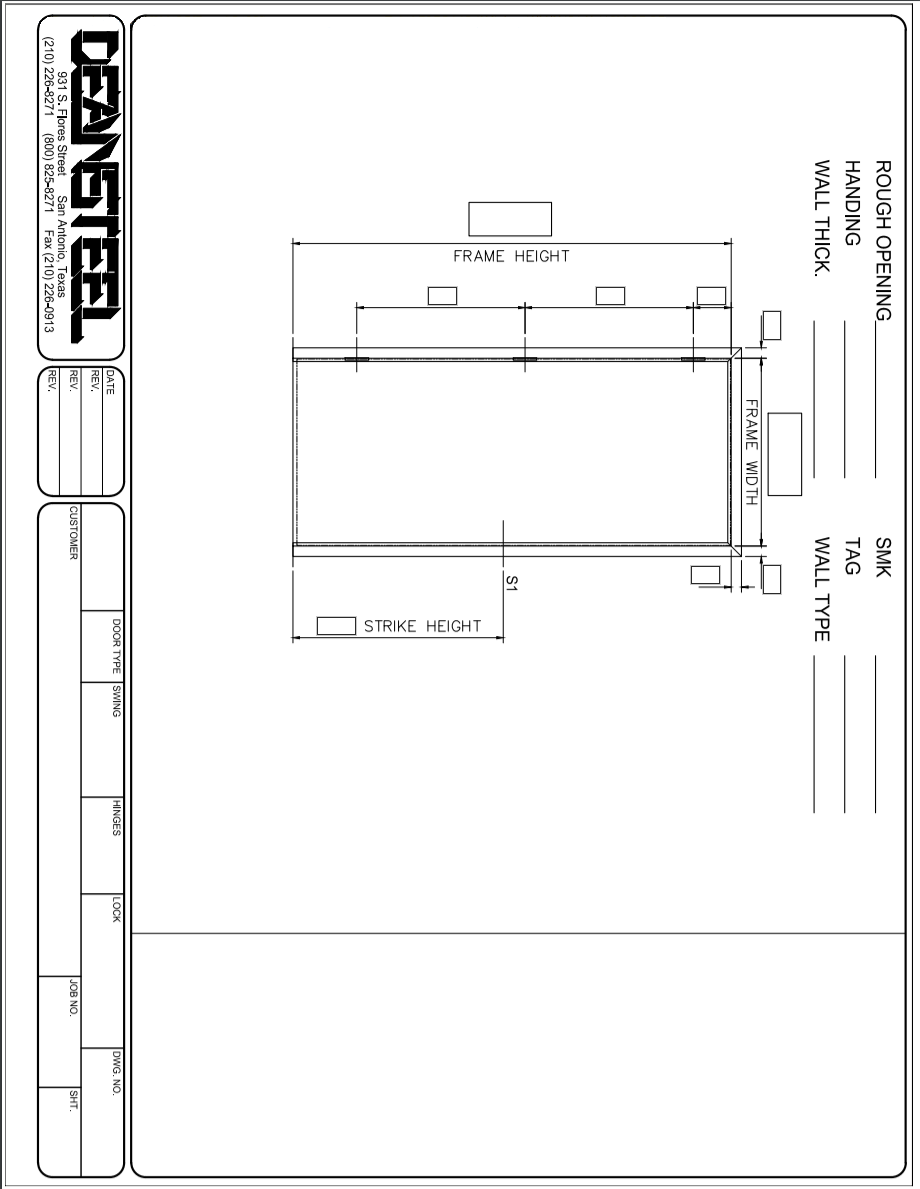
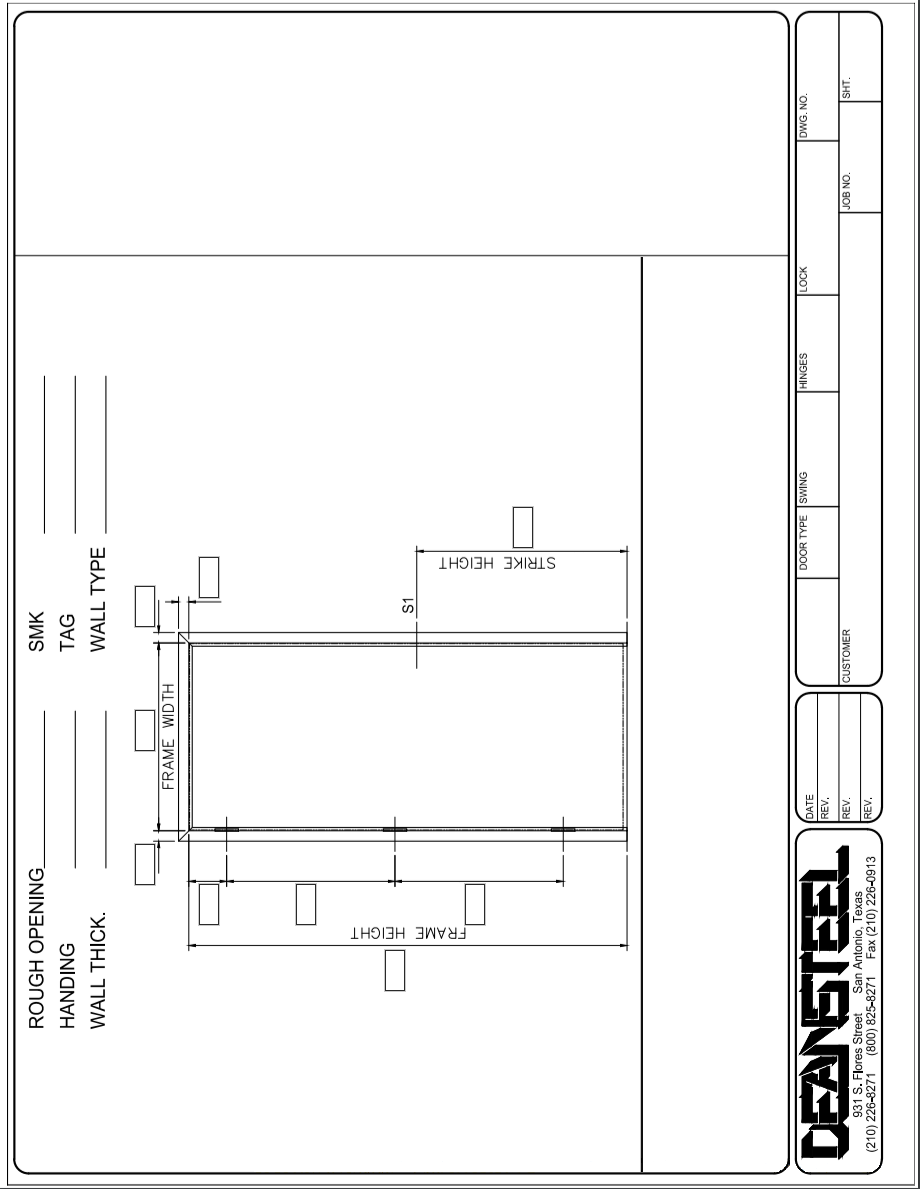
Blueprint Sizes now appear in boxes

Changed region(s): [[0.0, 0.0, 1.0, 1.0]]

diff --git a/DoorManageSys/src/report/BlueprintReport.java b/DoorManageSys/src/report/BlueprintReport.java
@@ -11,6 +11,7 @@ import org.apache.pdfbox.pdmodel.common.PDRectangle;
 import org.apache.pdfbox.pdmodel.graphics.image.PDImageXObject;
 import org.apache.pdfbox.util.Matrix;
 
+import blueprint.Blueprint;
 import order.Order;
 
 public class BlueprintReport extends PDFReport {
@@ -20,6 +21,10 @@ public class BlueprintReport extends PDFReport {
 	private PDImageXObject firstPage;
 	private PDPageContentStream stream;
 	private PDRectangle mediaBox;
+	private String width, height, frameLeft, frameRight, frameTop;
+	private String hingeSpaceTop, hingeSpaceMid, hingeSpaceBottom;
+	private String strikeHeight;
+	private HashMap <String, XYCoordinate> coordinate;
 	
 	public BlueprintReport (Order order) throws IOException {
 		
@@ -32,10 +37,21 @@ public class BlueprintReport extends PDFReport {
 		mediaBox = getCurrentPage().getMediaBox();
 		mediaBox.setLowerLeftX(70);
 		mediaBox.setLowerLeftY(70);
-		getCurrentPage().setRotation(270);
+		getCurrentPage().setRotation(90);
 		getPages().add (getCurrentPage());
 		setPageNumber (1);
 		setCoordinates (new HashMap <String, XYCoordinate> ());
+		coordinate = getCoordinates ();
+		
+		coordinate.put("width", new XYCoordinate (334, 448));
+		coordinate.put("height", new XYCoordinate (191, 322));
+		coordinate.put("frameLeft", new XYCoordinate (255,448));
+		coordinate.put("frameRight", new XYCoordinate (410, 448));
+		coordinate.put("frameTop", new XYCoordinate (425, 416));
+		coordinate.put("hingeSpaceTop", new XYCoordinate (230, 416));
+		coordinate.put("hingeSpaceMid", new XYCoordinate (230, 367));
+		coordinate.put("hingeSpaceBottom", new XYCoordinate (230, 281));
+		coordinate.put("strikeHeight", new XYCoordinate (455, 257));
 		
 		setStream (new PDPageContentStream (getDoc(), getCurrentPage(), PDPageContentStream.AppendMode.APPEND, false));
 		
@@ -46,7 +62,30 @@ public class BlueprintReport extends PDFReport {
 		firstPage = PDImageXObject.createFromFile("SingleDoorSide.PNG", getDoc());
 		
 		setUpFirstPage();
+	}
+	
+	public void getValues () {
 		
+		Blueprint blueprint = order.getBlueprint();
+		String[] sliced;
+		
+		sliced = blueprint.getDimension().split(",");
+		width = sliced[0];
+		height = sliced[1];
+		
+		sliced = blueprint.getFrame().split(",");
+		frameLeft = sliced[0];
+		frameRight = sliced[1];
+		frameTop = sliced[2];
+		
+		sliced = blueprint.getHingeSpaces().split(",");
+		hingeSpaceTop = sliced[0];
+		hingeSpaceMid = sliced[1];
+		hingeSpaceBottom = sliced[2];
+		
+		sliced = null;
+		
+		strikeHeight = blueprint.getStrikeHeight();
 	}
 	
 	@Override
@@ -54,7 +93,7 @@ public class BlueprintReport extends PDFReport {
 		
 		System.out.println("Setting up Blueprint...");
 		
-		setStreamFont(12);
+		setStreamFont(10);
 		stream.drawImage(firstPage, mediaBox.getLowerLeftX(), mediaBox.getLowerLeftY(), 465, 710);
 	}
 	
@@ -62,11 +101,66 @@ public class BlueprintReport extends PDFReport {
 	public void populateReport() throws IOException {
 		
 		System.out.println("Populating Blueprint...");
+
+		getValues();
 		
-		stream.beginText();
-		stream.setTextMatrix(Matrix.getRotateInstance(-Math.PI/2, PDRectangle.A4.getWidth()/2, PDRectangle.A4.getHeight()/2));
-		stream.newLineAtOffset(0, 0);
-		//stream.showText("HHOAEIFHO");
+		//Rotating the page goes clockwise
+		//rotating this text matrix uses an angle. Think of the unit circle
+		//must call setTextMatrix every fucking time. pretty dumb. Not sure 
+		//how to set the stream to treat a rotated page as not rotated
+		
+		stream.beginText();		
+		stream.setTextMatrix(Matrix.getRotateInstance(Math.PI/2, PDRectangle.A4.getWidth(), 0));		
+		stream.newLineAtOffset(coordinate.get("height").getX(), coordinate.get("height").getY());
+		stream.showText(height + "\"");
+		stream.endText();
+		
+		stream.beginText();		
+		stream.setTextMatrix(Matrix.getRotateInstance(Math.PI/2, PDRectangle.A4.getWidth(), 0));		
+		stream.newLineAtOffset(coordinate.get("width").getX(), coordinate.get("width").getY());
+		stream.showText(width + "\"");
+		stream.endText();
+		
+		stream.beginText();		
+		stream.setTextMatrix(Matrix.getRotateInstance(Math.PI/2, PDRectangle.A4.getWidth(), 0));		
+		stream.newLineAtOffset(coordinate.get("frameLeft").getX(), coordinate.get("frameLeft").getY());
+		stream.showText(frameLeft + "\"");
+		stream.endText();
+		
+		stream.beginText();		
+		stream.setTextMatrix(Matrix.getRotateInstance(Math.PI/2, PDRectangle.A4.getWidth(), 0));		
+		stream.newLineAtOffset(coordinate.get("frameRight").getX(), coordinate.get("frameRight").getY());
+		stream.showText(frameRight + "\"");
+		stream.endText();
+		
+		stream.beginText();		
+		stream.setTextMatrix(Matrix.getRotateInstance(Math.PI/2, PDRectangle.A4.getWidth(), 0));		
+		stream.newLineAtOffset(coordinate.get("frameTop").getX(), coordinate.get("frameTop").getY());
+		stream.showText(frameTop + "\"");
+		stream.endText();
+		
+		stream.beginText();		
+		stream.setTextMatrix(Matrix.getRotateInstance(Math.PI/2, PDRectangle.A4.getWidth(), 0));		
+		stream.newLineAtOffset(coordinate.get("hingeSpaceTop").getX(), coordinate.get("hingeSpaceTop").getY());
+		stream.showText(hingeSpaceTop + "\"");
+		stream.endText();
+		
+		stream.beginText();		
+		stream.setTextMatrix(Matrix.getRotateInstance(Math.PI/2, PDRectangle.A4.getWidth(), 0));		
+		stream.newLineAtOffset(coordinate.get("hingeSpaceMid").getX(), coordinate.get("hingeSpaceMid").getY());
+		stream.showText(hingeSpaceMid + "\"");
+		stream.endText();
+		
+		stream.beginText();		
+		stream.setTextMatrix(Matrix.getRotateInstance(Math.PI/2, PDRectangle.A4.getWidth(), 0));		
+		stream.newLineAtOffset(coordinate.get("hingeSpaceBottom").getX(), coordinate.get("hingeSpaceBottom").getY());
+		stream.showText(hingeSpaceBottom + "\"");
+		stream.endText();
+		
+		stream.beginText();		
+		stream.setTextMatrix(Matrix.getRotateInstance(Math.PI/2, PDRectangle.A4.getWidth(), 0));		
+		stream.newLineAtOffset(coordinate.get("strikeHeight").getX(), coordinate.get("strikeHeight").getY());
+		stream.showText(strikeHeight + "\"");
 		stream.endText();
 		
 		getStream().close();

diff --git a/DoorManageSys/src/report/TestBlueprintReport.java b/DoorManageSys/src/report/TestBlueprintReport.java
@@ -3,6 +3,7 @@ package report;
 import java.io.IOException;
 import java.util.ArrayList;
 
+import blueprint.Blueprint;
 import inventory.Inventory;
 import order.Order;
 import quoteproduct.Product;
@@ -20,6 +21,17 @@ public class TestBlueprintReport {
 		order.setCustomerPurchaseOrderNumber("0004473R");
 		order.setId(44553);
 		order.setCustomerName("Richard Salcedo");
+		
+		Blueprint blueprint = new Blueprint ();
+		
+		blueprint.setDimension("36,84");
+		blueprint.setFrame("3,3,3");
+		blueprint.setHingeSpaces("12,30,30");
+		blueprint.setStrikeHeight("42");
+		blueprint.setInventoryNotes("Start");
+		blueprint.setNotes("Start");
+		
+		order.setBlueprint(blueprint);
 		
 		ArrayList <Inventory> list = new ArrayList <Inventory> ();
 		
